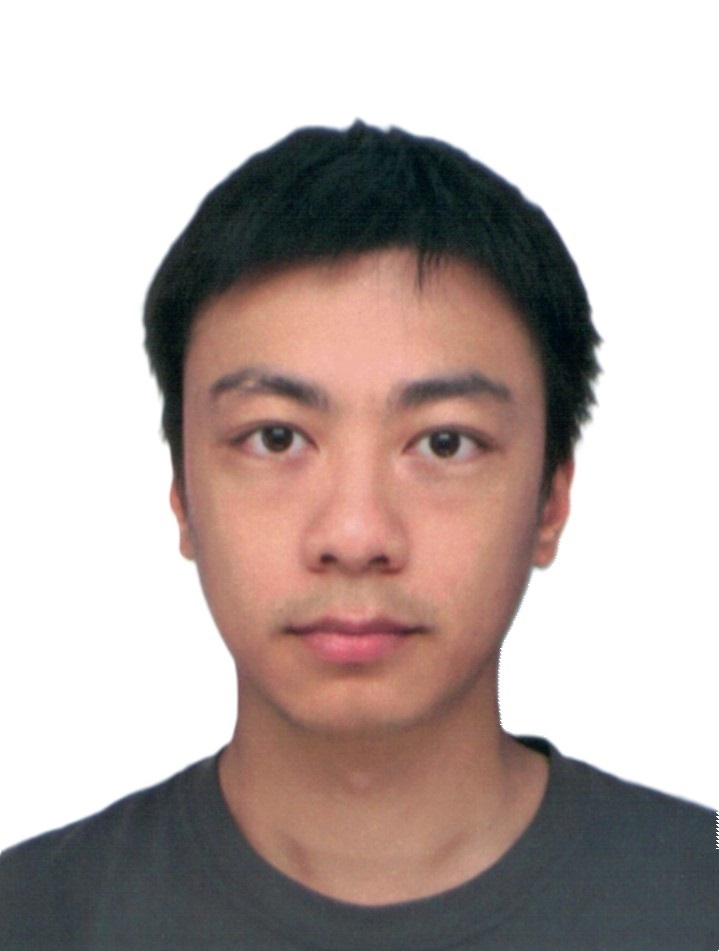
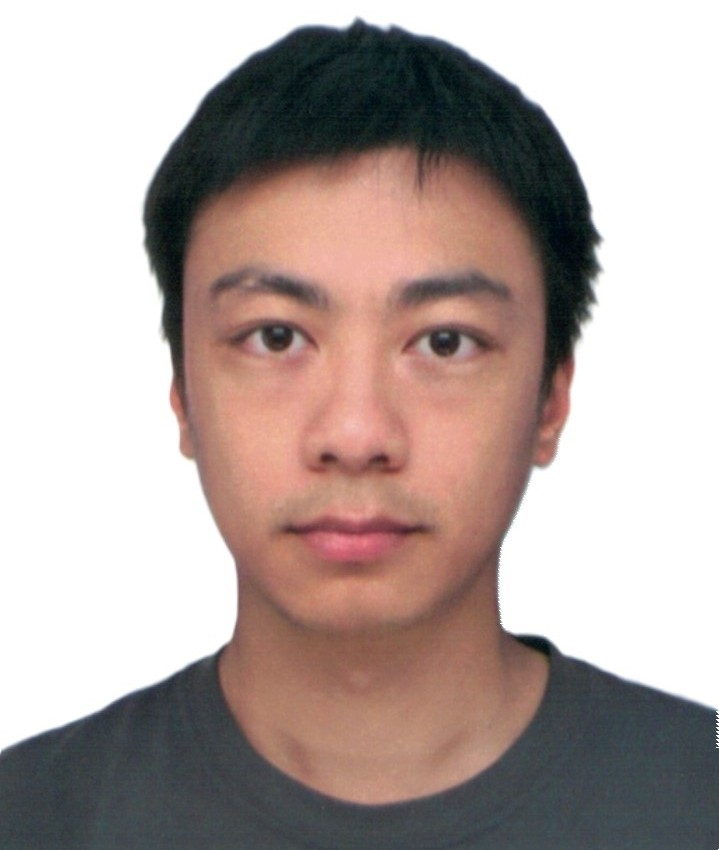
update bio

diff --git a/index.html b/index.html
@@ -1,5 +1,4 @@
 <!DOCTYPE html PUBLIC "-//W3C//DTD XHTML 1.1//EN" "http://www.w3.org/TR/xhtml11/DTD/xhtml11.dtd">
-<!-- saved from url=(0036)http://www.lamda.nju.edu.cn/zhangyj/ -->
 <html xmlns="http://www.w3.org/1999/xhtml" xml:lang="en">
 <head><meta http-equiv="Content-Type" content="text/html; charset=UTF-8">
 <meta name="generator" content="jemdoc, see http://jemdoc.jaboc.net/">
@@ -10,30 +9,27 @@
 <body data-gr-c-s-loaded="true" data-new-gr-c-s-check-loaded="14.1063.0" data-gr-ext-installed="">
 <div id="layout-content">
 <div id="toptitle">
-<h1><span style="padding-left:10px;"></span><font size="+3">Yu-Jie Zhang @ SYI Lab, Utokyo</font> </h1>
+<h1><span style="padding-left:10px;"></span><font size="+3">Yu-Jie Zhang @ RIKEN AIP</font> </h1>
 </div>
-
 <table class="imgtable"><tbody><tr>
 <td><span style="padding-left:10px;"></span></td>
-<td align="left" valign="bottom"><p>
-<font style = "font-size: 1.08em;">Ph.D. Student, <a href="http://www.ms.k.u-tokyo.ac.jp/index.html">Sugiyama-Yokoya-Ishida Lab</a></font><br>
-<font style = "font-size: 1.08em;"><a href="https://www.k.u-tokyo.ac.jp/complex/en/index.html">Department of Complexity Science and Engineering</a></font> <br>
-<font style = "font-size: 1.08em;"><a href="https://www.k.u-tokyo.ac.jp/en/index.html">Graduate School of Frontier Sciences</a></font> <br>
-<font style = "font-size: 1.08em;"><a href="https://www.u-tokyo.ac.jp/en/">The University of Tokyo</a>, Chiba, Japan<br><br>
-<font style = "font-size: 1.08em;"><b>Email</b>: yujie.zhang [at] ms.k.u-tokyo.ac.jp</font><br>
-<font style = "font-size: 1.08em;"><b>Supervisor</b>: <a href="http://www.ms.k.u-tokyo.ac.jp/sugi/" target="_blank">Prof. Masashi Sugiyama</a>.</font>
+<td align="left" valign="top"><p>
+<font style = "font-size: 1.08em;">Postdoc Researcher</a></font><br>
+<font style = "font-size: 1.08em;"><a href="https://www.riken.jp/en/research/labs/aip/generic_tech/imperfect_inf_learn/index.html">Imperfect Information Learning Team</a></font><br>
+<font style = "font-size: 1.08em;"><a href="https://www.riken.jp/en/research/labs/aip/">RIKEN Center for Advanced Intelligence Project</a></font> <br>
+<font style = "font-size: 1.08em;"><b>Email</b>: yu-jie.zhang [at] riken.jp</font><br>
 </p>
 [<a href="./resume/twopage/CV_twopage.pdf">CV</a>, <a href="https://scholar.google.com/citations?hl=zh-CN&user=ZDHyUSQAAAAJ">Google Scholar</a>, <a href="https://github.com/yjzzzzz">Github</a>]
 </td>
-<td><span style="padding-left:250px;"></span></td>
-<td valign="bottom"><a href="./Yu-Jie Zhang @ files/zhangyj_photo1.jpg"><img src="./Yu-Jie Zhang @ files/zhangyj_photo1.jpg" alt="zhangyj_photo1.jpg" width="150 px" height="200 px"></a>&nbsp;</td>
+<td><span style="padding-left:130px;"></span></td>
+<td valign="top"><a href="./Yu-Jie Zhang @ files/zhangyj_photo1.jpg"><img src="./Yu-Jie Zhang @ files/zhangyj_photo1.jpg" alt="zhangyj_photo1.jpg" width="105 px" height="140 px"></a>&nbsp;</td>
 </tr></tbody></table>
 
 
 
 
 <h2>About Me</h2>
-I am a third year Ph.D. student of <a href="https://www.k.u-tokyo.ac.jp/complex/en/index.html">Department of Complexity Science and Engineering</a> in <a href="https://www.u-tokyo.ac.jp/en/">the University of Tokyo</a> and a member of <a href="http://www.ms.k.u-tokyo.ac.jp/index.html">SYI</a> Lab. I also work as a research assistant on <a href="https://beyondai.jp/"> Beyond AI</a>. Previously, I got my M.Sc. degree with the LAMDA Group, <a href="http://www.nju.edu.cn/" target="_blank">Nanjing University</a> in June 2021 under the supervision of <a href="https://cs.nju.edu.cn/zhouzh/index.htm">Prof. Zhi-Hua Zhou</a>.
+I am a postdoctoral researcher in the <a href="https://www.riken.jp/en/research/labs/aip/generic_tech/imperfect_inf_learn/index.html">Imperfect Information Learning Team</a> at <a href="https://www.riken.jp/en/research/labs/aip/">RIKEN AIP</a>. I earned my Ph.D. from <a href="https://www.u-tokyo.ac.jp/en/">the University of Tokyo</a> under the supervision of <a href="https://www.ms.k.u-tokyo.ac.jp/sugi/">Prof. Masashi Sugiyama</a>. Previously, I completed my M.Sc. with the LAMDA Group at <a href="http://www.nju.edu.cn/" target="_blank">Nanjing University</a>, under the supervision of <a href="https://cs.nju.edu.cn/zhouzh/index.htm">Prof. Zhi-Hua Zhou</a>.
 <br>
 
 <h2>Research Interests</h2>
